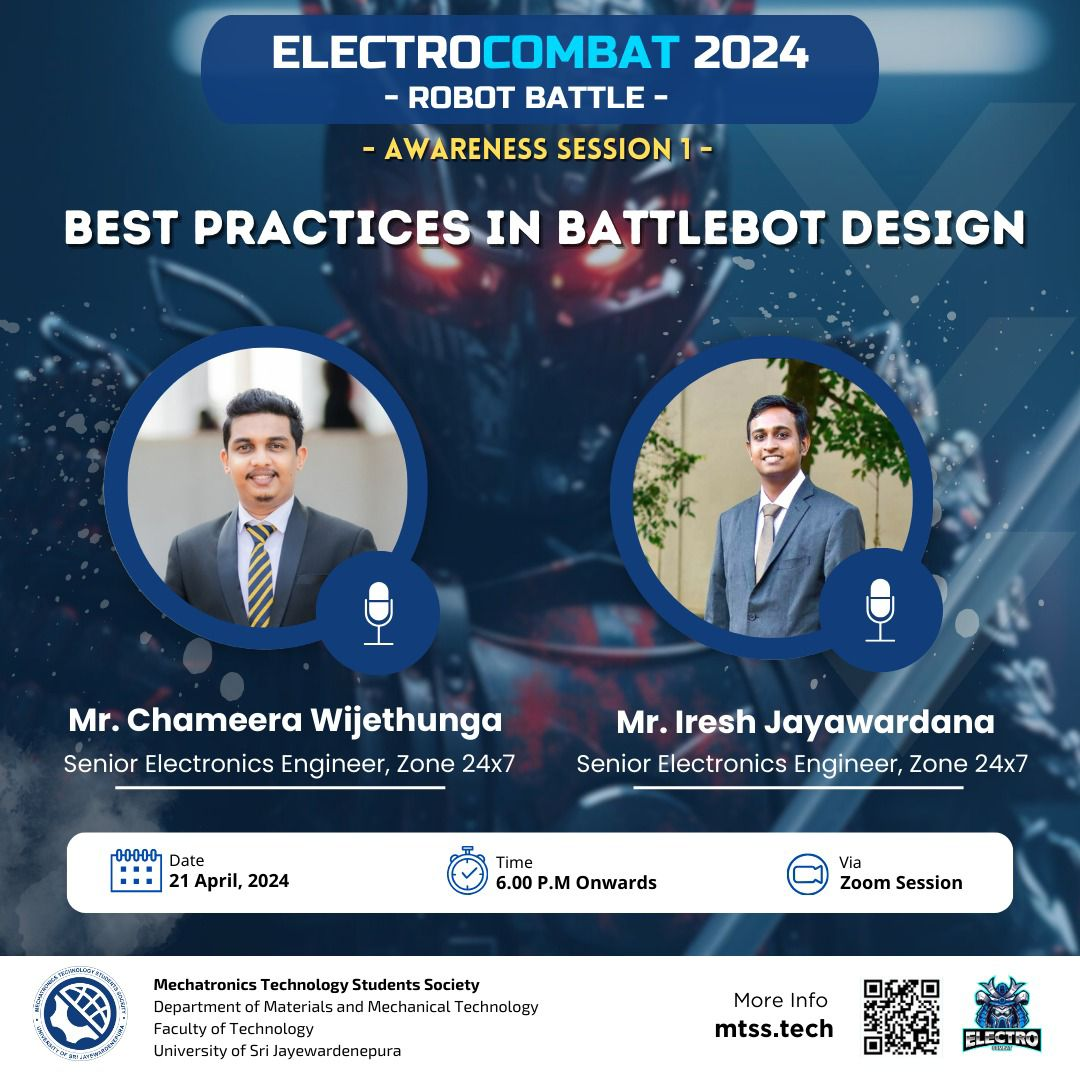
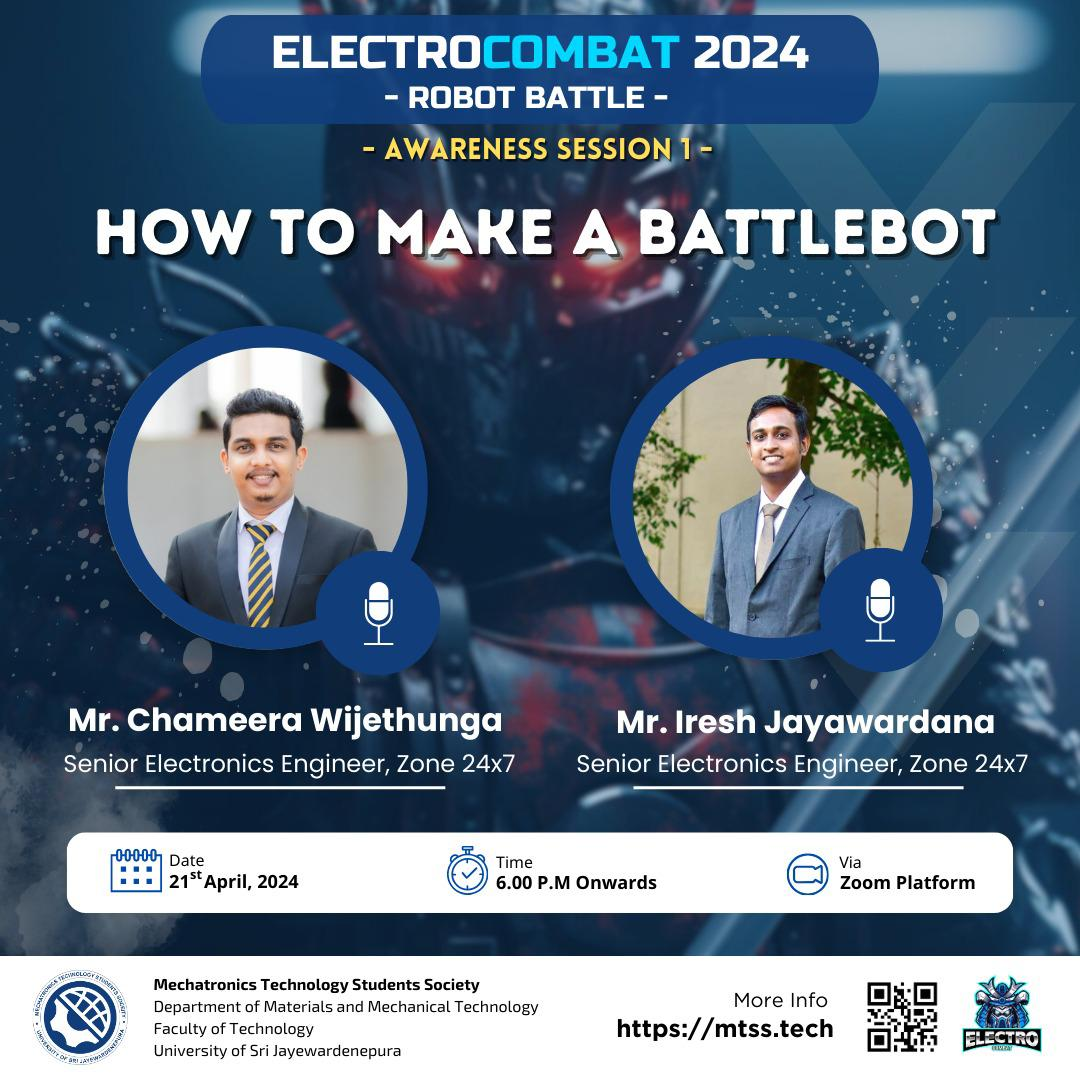
updated

diff --git a/src/scenes/Event.jsx b/src/scenes/Event.jsx
@@ -28,10 +28,10 @@ function Event() {
       <LineGradient width="w-1/3" />
       <p className="font-playfair font-semibold text-base mt-10 uppercase md:leading-normal leading-relaxed">
         <span className="text-2xl">
-          topic : Best Practices in Battlebot design
+          topic : How to make a battlebot
         </span>
         <br />
-        date : 21<sup>st</sup> April 2024 <br />
+        date : 21<sup className="lowercase">st</sup> April 2024 <br />
         time : 6.00 PM Onwards
       </p>
       <div className="flex justify-between items-center flex-col">
